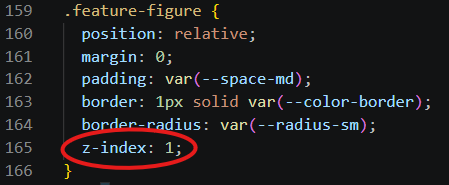
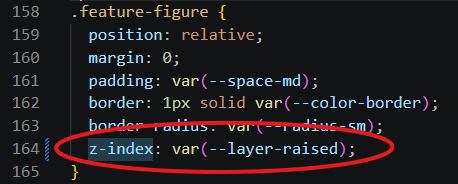
Final update
Updated test record and some screenshots; finalized README file.

diff --git a/test-record.html b/test-record.html
@@ -439,16 +439,16 @@
           </tr>
           <tr>
             <td><code>.article-heading</code></td>
-            <td><code>z-index: 1</code></td>
+            <td><code>z-index: var(--layer-raised)</code></td>
             <td>
-              A <code>z-index</code> of <code>1</code> prevents text from
+              A <code>z-index</code> of <code>10</code> prevents text from
               displaying over the headings when the viewport is scrolled.
             </td>
             <td>
               <img
                 src="img/sticky-heading-z-index.png"
                 alt="sticky heading with a z-index"
-                width="319"
+                width="365"
               />
             </td>
           </tr>
@@ -469,17 +469,18 @@
           </tr>
           <tr>
             <td><code>.feature-figure</code></td>
-            <td><code>z-index: 1</code></td>
+            <td><code>z-index: var(--layer-raised)</code></td>
             <td>
               <code>.feature-figure</code> has a <code>z-index</code> of
-              <code>1</code> so that it's child <code>.figure-overlay</code> can
-              be displayed on top of it/on the layer above it.
+              <code>10</code> so that it's child
+              <code>.figure-overlay</code> can be displayed on top of it/on the
+              layer above it.
             </td>
             <td>
               <img
                 src="img/feature-figure-z-index.png"
-                alt="feature figure with a z index of one"
-                width="449"
+                alt="feature figure with a z index of ten"
+                width="458"
               />
             </td>
           </tr>
@@ -507,17 +508,17 @@
           </tr>
           <tr>
             <td><code>.figure-overlay</code></td>
-            <td><code>z-index: 2</code></td>
+            <td><code>z-index: var(--layer-sticky)</code></td>
             <td>
               <code>.figure-overlay</code> has a <code>z-index</code> of
-              <code>2</code> so it is displayed on top of its parent block
+              <code>20</code> so it is displayed on top of its parent block
               <code>.feature-figure</code>.
             </td>
             <td>
               <img
                 src="img/figure-overlay-z-index.png"
-                alt="figure overlay child element with a z index of two"
-                width="488"
+                alt="figure overlay child element with a z index of twenty"
+                width="506"
               />
             </td>
           </tr>

diff --git a/styles.css b/styles.css
@@ -147,7 +147,7 @@ article section {
   display: flex;
   position: sticky;
   top: 0;
-  z-index: 1;
+  z-index: var(--layer-raised);
   width: 100%;
   height: var(--space-xxl);
   background-color: var(--color-action);
@@ -161,7 +161,7 @@ article section {
   padding: var(--space-md);
   border: 1px solid var(--color-border);
   border-radius: var(--radius-sm);
-  z-index: 1;
+  z-index: var(--layer-raised);
 }
 img {
   display: block;
@@ -180,7 +180,7 @@ img {
   justify-content: center;
   align-items: center;
   border-left: 6px solid var(--color-action);
-  z-index: 2;
+  z-index: var(--layer-sticky);
 }
 .diabetes-container {
   padding-right: var(--space-xl);

diff --git a/index.html b/index.html
@@ -428,7 +428,10 @@
               Asked MS Copilot what is meant by "stacking-context inspection".
             </li>
             <li>No code was generated or written by AI.</li>
-            <li>All work submitted is the work of Steven Plomedahl.</li>
+            <li>
+              All work submitted is the work of Steven Plomedahl and GIT
+              337/ASU.
+            </li>
           </ol>
           <a href="README.md" target="_blank">README.md</a>
         </div>

diff --git a/README.md b/README.md
@@ -2,7 +2,7 @@
 
 GIT 337 - Module 4 Deliverable assignment
 
-Authored by Steven Plomedahl
+Authored by Steven Plomedahl and GIT 337/ASU
 
 Sources:
 
@@ -33,4 +33,4 @@ AI Disclosure:
 1. Asked MS Copilot what a "support/fallback record" is.
 2. Asked MS Copilot what is meant by "stacking-context inspection".
 3. No code was generated or written by AI.
-4. All work submitted is the work of Steven Plomedahl.
+4. All work submitted is the work of Steven Plomedahl and GIT 337/ASU.
